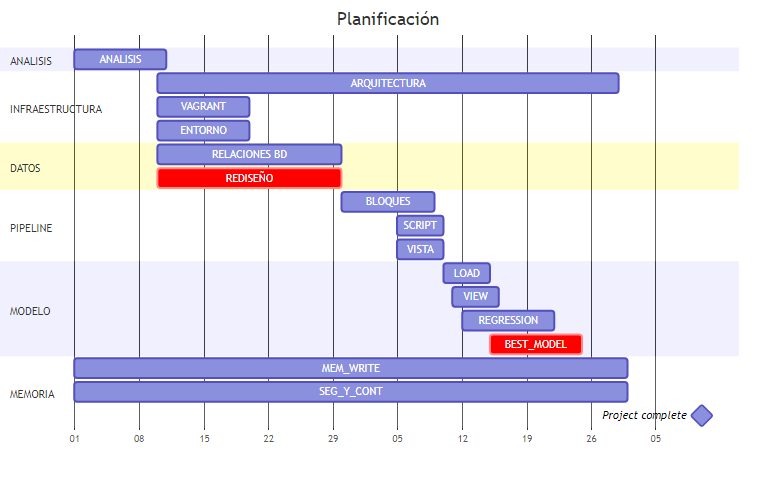
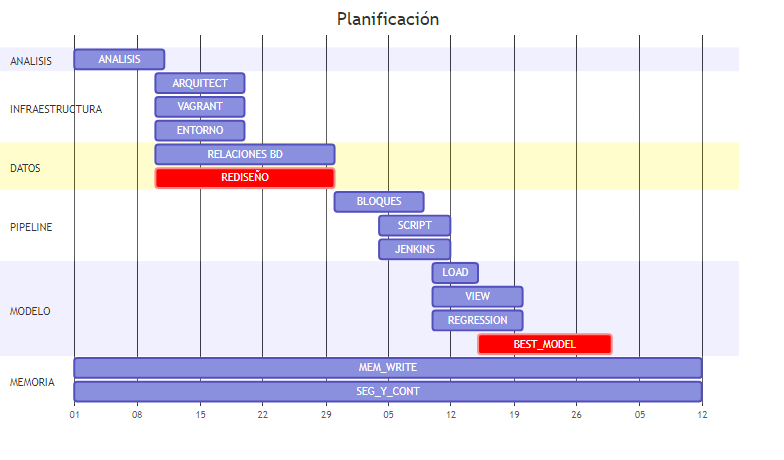
Update from https://github.com/alesteba/tfg_mem/commit/d6138862eeb02924600c2d6b26bd339777320103

diff --git a/index.html b/index.html
@@ -53,7 +53,7 @@
 <li>Incluir los resultados en la presentación de la aplicación.</li>
 </ul></div><div id=Metodología><h3>1.3.2 Metodología</h3><p>En el equipo hacemos uso de SCRUM para la gestión del proyecto. Dicha metodología permite un desarrollo en cascada de las diferentes tareas propuestas para la creación del pipeline.</p>
 <p>Se usará un ciclo de vida iterativo e incremental. Dentro de las fases del proyecto (también llamadas iteraciones), se repiten de manera intencionada una o más actividades del  proyecto. Con estas iteraciones el entendimiento del producto por parte del equipo va aumentando. Las fases (iteraciones) desarrollan el producto a través de una serie de ciclos repetidos, mientras que los incrementos van añadiendo sucesivamente funcionalidad al producto. Esto, en definitiva, consiste en varios ciclos de vida en cascada. Al final de cada iteración se entrega una versión mejorada. Las versiones que entregamos se corresponden con las cuatro grandes fases de la arquitectura que desarrollamos.</p>
-<p><img alt="" src="figures/iteraciones.PNG" /></p></div><div id=EDT><h3>1.3.3 EDT</h3><p>Mostramos el desglose de las tareas más importantes para la correcta realización del proyecto. Para poder realizar un posterior seguimiento y control del proyecto asignamos a cada tarea un tiempo adecuado a la complejidad que estimamos para ésta. En caso de que posteriormente nos alejemos de lo que aquí planificamos, anotaremos dichas desviaciones en la sección de 'seguimiento y control'</p>
+<p><img alt="" src="figures/iteraciones.png" /></p></div><div id=EDT><h3>1.3.3 EDT</h3><p>Mostramos el desglose de las tareas más importantes para la correcta realización del proyecto. Para poder realizar un posterior seguimiento y control del proyecto asignamos a cada tarea un tiempo adecuado a la complejidad que estimamos para ésta. En caso de que posteriormente nos alejemos de lo que aquí planificamos, anotaremos dichas desviaciones en la sección de 'seguimiento y control'</p>
 <table>
 <thead>
 <tr>
@@ -443,7 +443,7 @@
 <li>Static File Generator: podemos diseñar la interfaz de la aplicación en formato web y desplegar en un servidor.</li>
 <li>Commands-System: gestión de comandos internos mediante los que se puede automatizar tareas; utilizaremos esta arquitectura para diseñar el pipeline de datos y almacenar la información proveniente de diferentes fuentes.</li>
 </ul>
-<p><img alt="" src="figures/django_migrate.PNG" /></p>
+<p><img alt="" src="figures/django_migrate.png" /></p>
 <p>Aunque el framework es muy potente, harán falta otras herramientas y entornos para completar con éxito la automatización que buscamos para así conseguir un proceso de optimización continua. En el siguiente punto hablaremos de la infraestructura que la aplicación requiere y de cómo podemos solventar algunos de los problemas de integración más importantes. Mencionamos algunas de estas tecnologías:</p>
 <ul>
 <li>Vagrant: virtualización de una máquina Unix en la que podamos provisionar el proyecto y reproducir los pasos necesarios de nuestro pipeline.</li>
@@ -818,7 +818,7 @@ sudo<span class="w"> </span>apt<span class="w"> </span>install<span class="w"> <
 </ul>
 <p>Como hemos dicho, hay varias formas de realizar este proceso de canalización; en nuestro caso identificaremos los bloques y diseñaremos el proceso casi de forma manual, para que se ajuste con exactitud a lo que queremos hacer. En el siguiente punto exponemos la tecnología subyacente que utilizaremos para ello. </p></div><div id=Design_pattern><h3>1.7.2 Design pattern</h3><p>En ingeniería de software, un <strong>patrón de diseño</strong> es una solución general y reutilizable para un problema común dentro de un contexto dado. El término "pipeline" puede hacer referencia a diferentes soluciones y contextos. De momento vamos a centrarnos en su aplicación como patrón de diseño ya que en nuestra aplicación se está utilizando como tal.</p>
 <p><strong>Podemos definir un pipeline como una cadena de elementos de procesamiento (procesos, subprocesos, rutinas, funciones, etc.) dispuestos de modo que la salida de cada elemento sea la entrada del siguiente; el nombre hace referencia al flujo de una o varias tuberías.</strong></p>
-<p>En nuestro caso vamos a utilizar la arquitectura de comandos que proporciona Django para diseñar los procesos de transformación de datos que van a poblar la base de datos. La definición y reutilización del proceso de población es muy importante debido a la forma de trabajo que tiene la empresa con diferentes clientes. Dependiendo del cliente se prepara una copia de la aplicación para trabajar con sus datos; por ello una vez definidas las unidades atómicas del proceso de carga de datos, se podrán diseñar diferentes pipelines para cada cliente. Para este trabajo nos conformaremos con el diseño y la implementación de un proceso general, pero manteniendo la idea de que pueda ser escalado más adelante.</p>
+<p>En nuestro caso vamos a utilizar la arquitectura de comandos que proporciona Django para diseñar los procesos de transformación de datos que van a poblar la base de datos. La definición y reutilización del proceso de población es muy importante debido a la forma de trabajo que tiene la empresa con diferentes clientes. Dependiendo del cliente, se prepara una copia de la aplicación para trabajar con sus datos; por ello, una vez definidas las unidades atómicas del proceso de carga de datos, se podrán diseñar diferentes pipelines para cada cliente. Para este trabajo nos conformaremos con el diseño y la implementación de un proceso general, pero manteniendo la idea de que pueda ser escalado más adelante.</p>
 <div class="codehilite"><pre><span></span><code><span class="kn">from</span> <span class="nn">django.core.management.base</span> <span class="kn">import</span> <span class="n">BaseCommand</span>
 
 <span class="k">class</span> <span class="nc">Command</span><span class="p">(</span><span class="n">BaseCommand</span><span class="p">):</span>
@@ -883,8 +883,8 @@ sudo<span class="w"> </span>apt<span class="w"> </span>install<span class="w"> <
 </table>
 <p>Para entender detalladamente qué hacen los scripts de carga de índices tenemos que explicar algunos de los procesos de automatización de los que hacemos uso. </p>
 <p>Estos scripts nos permiten crear el flujo necesario para que la aplicación procese la información y termine en un estado consistente. Parte del proceso necesita ser automatizado y ejecutado reiteradamente, añadiendo los datos a la BD y relacionándolos adecuadamente. En nuestro contexto agronómico, es la descarga de índices la parte del proceso que necesita ser automatizada, mientras que los datos de las parcelas y cultivos y la información geoespacial se pueden cargar directamente en el despliegue de la aplicación. </p>
-<p>Con esta estructura de tuberías lista, podemos reutilizar cualquier parte del proceso. Un planificador de tareas nos ayuda a establecer el tiempo que tiene que transcurrir entre las descargas.  Se ha utilizado el scheduler por defecto del framework de Django que estamos utilizando para esta gestión de tiempos y descarga.</p>
-<p>Finalmente, para realizar pruebas, queremos crear un único script que ejecute el proceso de forma ordenada. El resto de tuberías que se adjuntan en el proyecto tienen una forma similar y hacen el mismo uso de los comandos de Django que hemos explicado.</p>
+<p>Con esta estructura de tuberías lista, podemos reutilizar cualquier parte del proceso. Un planificador de tareas nos ayuda a establecer el tiempo que tiene que transcurrir entre las descargas.  Se ha utilizado el scheduler por defecto del framework de Django que estamos utilizando para esta gestión de tiempos y descarga,</p>
+<p>Finalmente, para realizar pruebas y exponer el proceso en esta memoria, Jenkins nos permite ejecutar de forma ordenada el flujo completo del pipeline mediante infraestructura como código. El resto de tuberías que se utilzian en el proyecto tienen una forma similar y hacen el mismo uso de los comandos de Django que hemos explicado.</p>
 <p>Por último, este patrón nos permite ejecutar comandos de forma asíncrona y gestionar los procesos con un planificador. Actualmente, aunque el tiempo de carga es alto, podemos asumir una carga lenta. Pero es este mismo patrón de diseño el que nos puede permitir a futuro la carga asíncrona de los datos en cada una de los componentes que lo forman.</p>
 <div class="codehilite"><pre><span></span><code><span class="k">def</span> <span class="nf">run</span> <span class="p">(</span><span class="bp">self</span><span class="p">,</span> <span class="n">DATA</span><span class="p">,</span> <span class="n">INDICES</span><span class="p">):</span>
 
@@ -1294,8 +1294,7 @@ sudo<span class="w"> </span>apt<span class="w"> </span>install<span class="w"> <
 <p>Para finalizar, volvemos a los conceptos de los procesos 'lean' que mencionábamos al principio. La fácil comprensión que permiten los esquemas de datos aquí planteados dotan al equipo de trabajo del lenguaje ubicuo necesario para que el software pueda crecer y ser escalado, evitando bloqueos por falta de comprensión. El lenguaje que maneja el equipo está directamente relacionado con su buen funcionamiento y garantiza el proceso de  optimización continua. Los artefactos obtenidos y la explicación de los modelos quedan así como documentación interna que debe ser mantenida al mismo nivel de importancia que el software que la implementa. </p>
 <p>'<img alt="" src="mermaid/output_4.png" />'</p>
 <p>En cuanto a la aplicación, se ha conseguido terminar con un producto funcional que cumple con los requisitos planteados. El proceso de arquitectura conseguido facilita el uso de múltiples datos provenientes de las fuentes estudiadas. El esquema de datos relacional implementado soporta la carga de los índices vegetativos, así como el resto de información relativa al parcelario. Los bloques atómicos de carga diseñados permiten planificar y automatizar la ingestión de los datos provenientes de las fuentes descritas. Por último, la capacidad para utilizar modelos de regresión sobre los datos dota a la arquitectura de la capa necesaria para realizar predicciones y configurar los estudios necesarios. Hemos conseguido crear las bases de un proceso que tiene un gran potencial para monitorizar y proporcionar una adecuada toma de decisiones sobre conceptos agronómicos.</p>
-<p><img alt="" src="figures/completed.png" /></p></div><div id=Figuras><h4>1.10.2 Figuras</h4><p>enlace a las figuras utilizadas:  (esto)</p>
-<p>Figura 1 - Imagen del frontend de la aplicación en la que se muestran, mediante un mapeo con colores, la evolución de los índices vegetativos en varias parcelas agrícolas.</p>
+<p><img alt="" src="figures/completed.png" /></p></div><div id=Figuras><h4>1.10.2 Figuras</h4><p>Figura 1 - Imagen del frontend de la aplicación en la que se muestran, mediante un mapeo con colores, la evolución de los índices vegetativos en varias parcelas agrícolas.</p>
 <p>Figura 2 - Esquema ciclo iterativo en cascada.</p>
 <p>Figura 3 - Diagrama Gantt con un desglose estipulado de la evolución del proyecto.</p>
 <p>Figura 4 - Captura del visor web en la que se aprecia cómo se monitorizan varias parcelas.</p>
